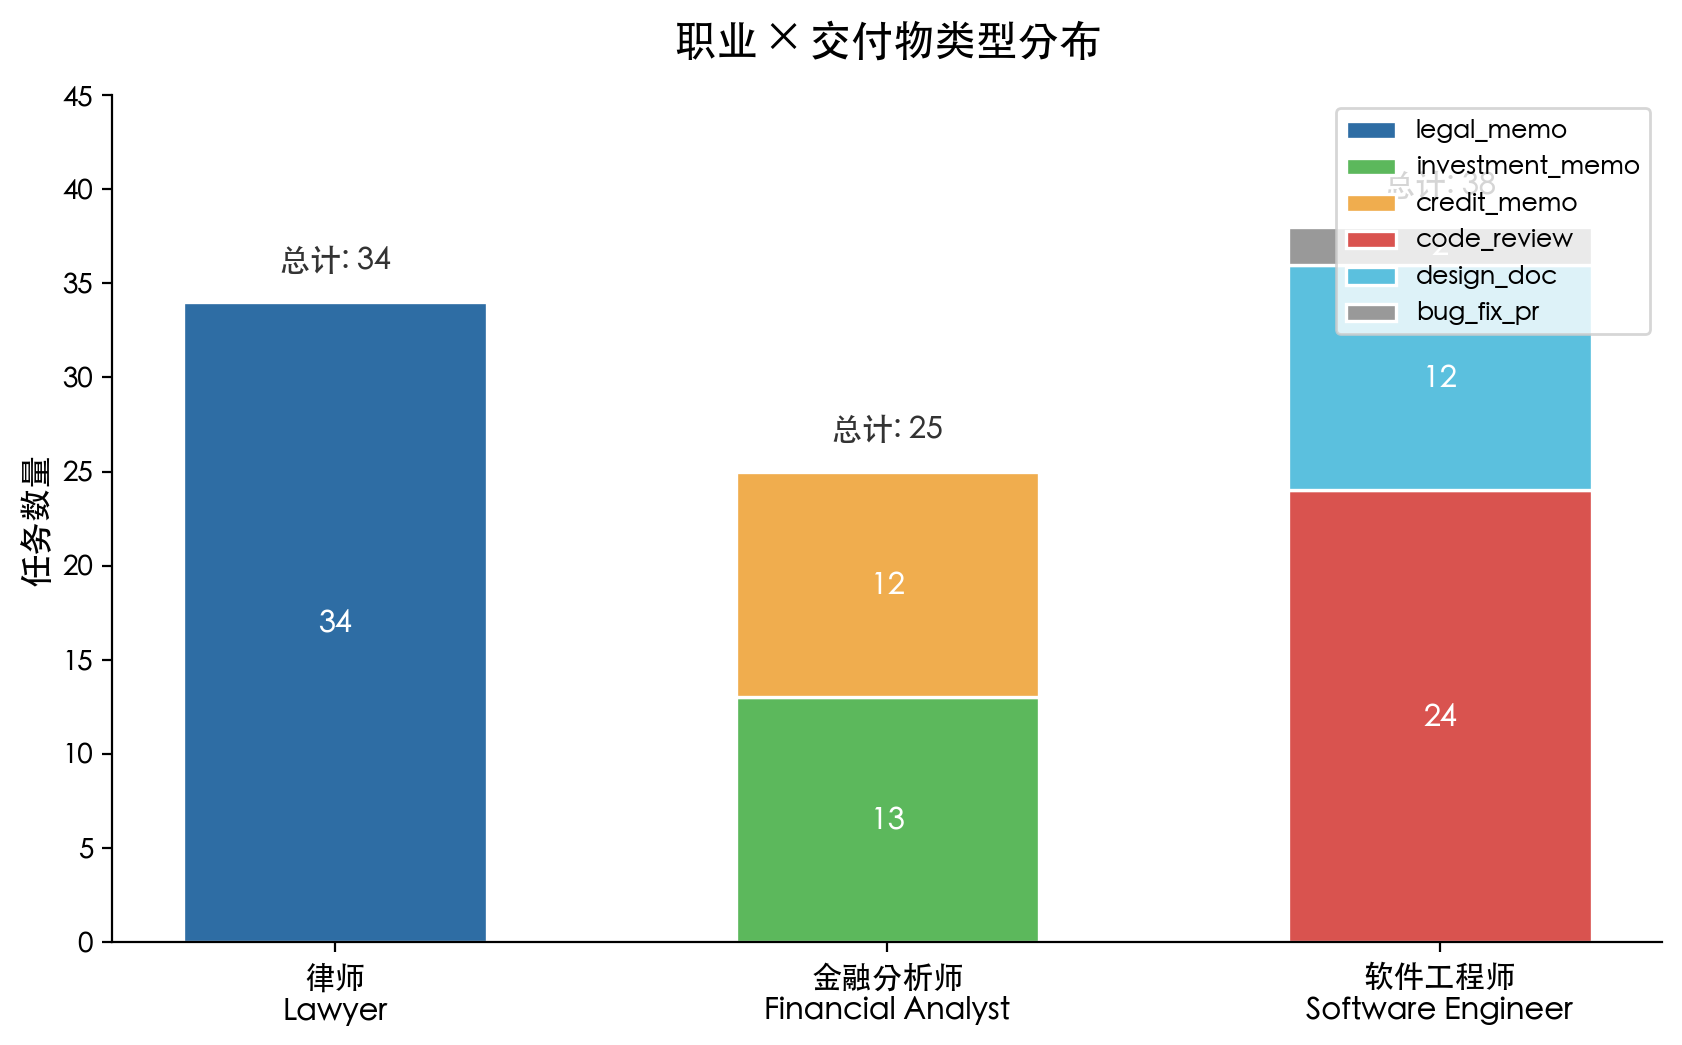
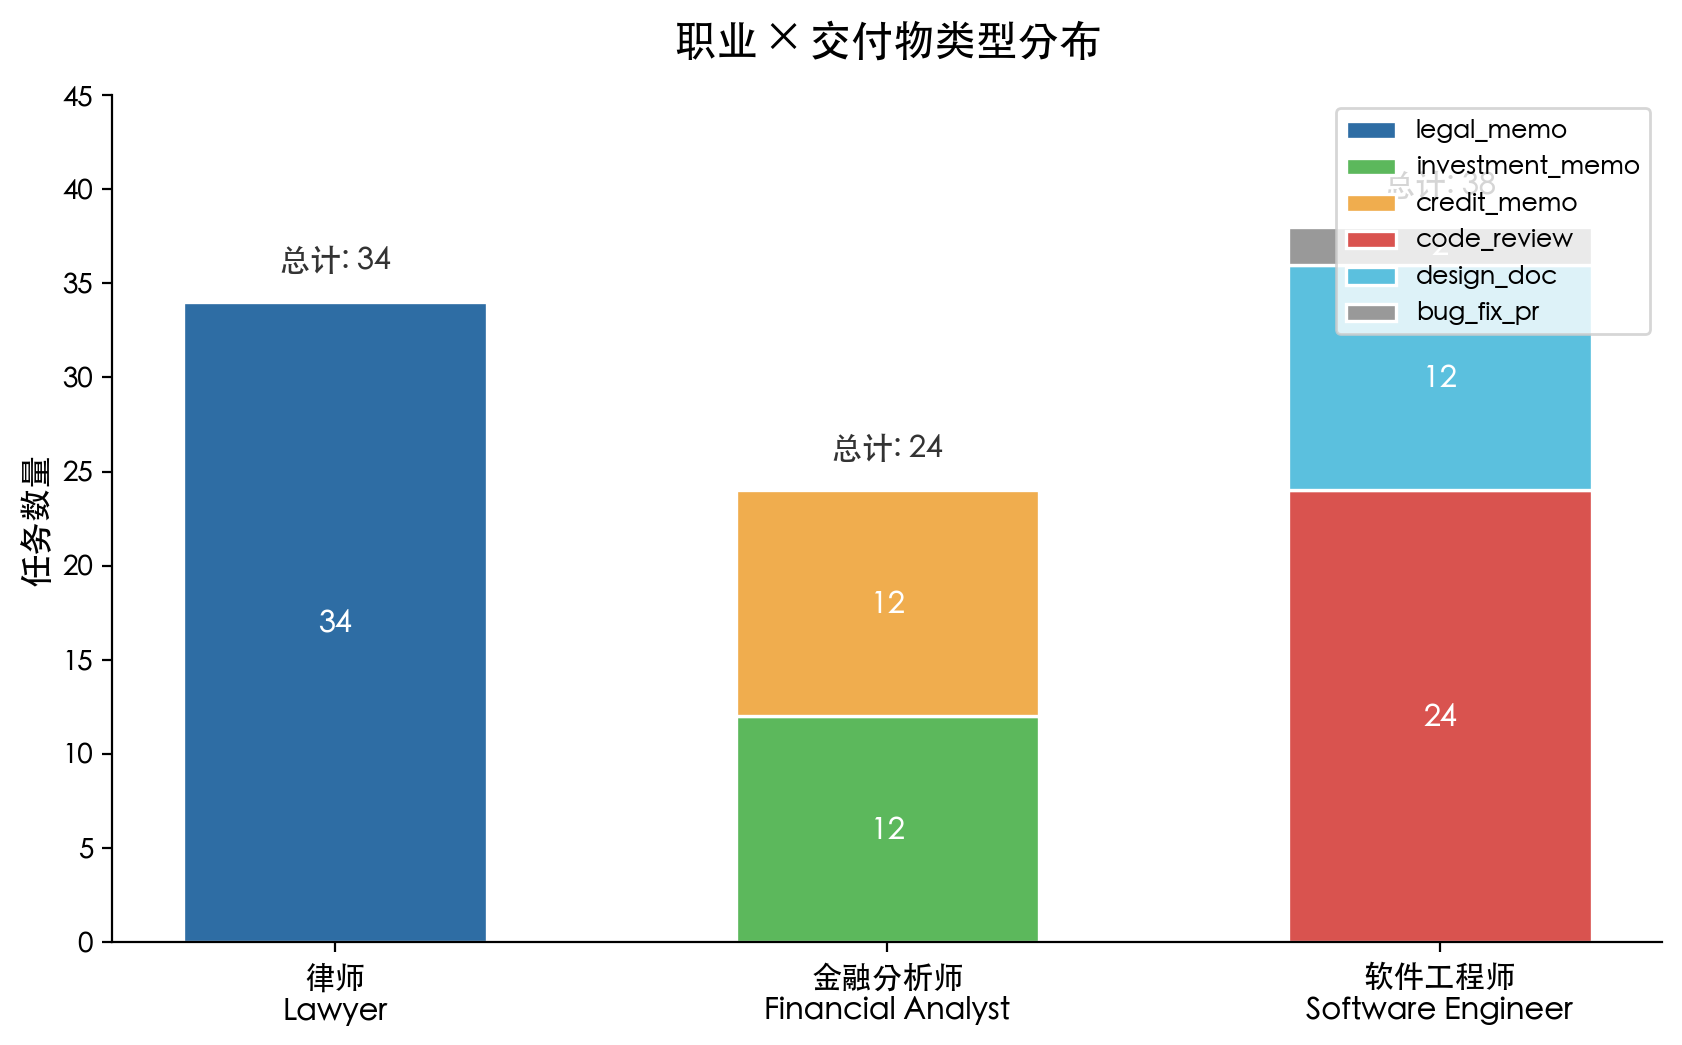
Update charts to reflect regenerated task stats (96 accepted)
- pipeline_flow: 97 → 96 tasks
- quality_funnel: 97 → 96, pass rate 92.4% → 91.4%
- occupation_archetype: investment_memo 13 → 12

diff --git a/scripts/generate_charts.py b/scripts/generate_charts.py
@@ -33,7 +33,7 @@ def chart_pipeline() -> None:
         ("LLM 统一生成", "单次结构化调用\n题目 + 答案 + Rubric", "#5CB85C"),
         ("确定性渲染", "docx / xlsx / md / pdf\n无 LLM 参与", "#F0AD4E"),
         ("质量漏斗", "6 项硬校验\n通过率 ~92%", "#D9534F"),
-        ("已验收任务", "97 道题\n3 种职业", "#5BC0DE"),
+        ("已验收任务", "96 道题\n3 种职业", "#5BC0DE"),
     ]
 
     box_w = 2.2
@@ -73,7 +73,7 @@ def chart_funnel() -> None:
     fig, ax = plt.subplots(figsize=(10, 5))
 
     stages = ["种子池", "生成任务", "通过质量门", "已验收"]
-    counts = [117, 105, 97, 97]
+    counts = [117, 105, 96, 96]
     colors = ["#B8D4E8", "#7FB3D5", "#4A90D9", "#2E6DA4"]
 
     # Draw funnel bars (centered, width proportional to count)
@@ -111,7 +111,7 @@ def chart_funnel() -> None:
     # Rate labels
     ax.text(max_w / 2 + 3.5, 2.7, "通过率\n89.7%", ha="center", va="center",
             fontsize=10, color="#666", bbox=dict(boxstyle="round,pad=0.3", facecolor="#f5f5f5", edgecolor="#ddd"))
-    ax.text(max_w / 2 + 3.5, 1.7, "通过率\n92.4%", ha="center", va="center",
+    ax.text(max_w / 2 + 3.5, 1.7, "通过率\n91.4%", ha="center", va="center",
             fontsize=10, color="#666", bbox=dict(boxstyle="round,pad=0.3", facecolor="#f5f5f5", edgecolor="#ddd"))
 
     ax.set_xlim(-1, max_w + 5)
@@ -138,7 +138,7 @@ def chart_stacked_bar() -> None:
     ]
     counts = [
         [34],
-        [13, 12],
+        [12, 12],
         [24, 12, 2],
     ]
     colors_map = {
